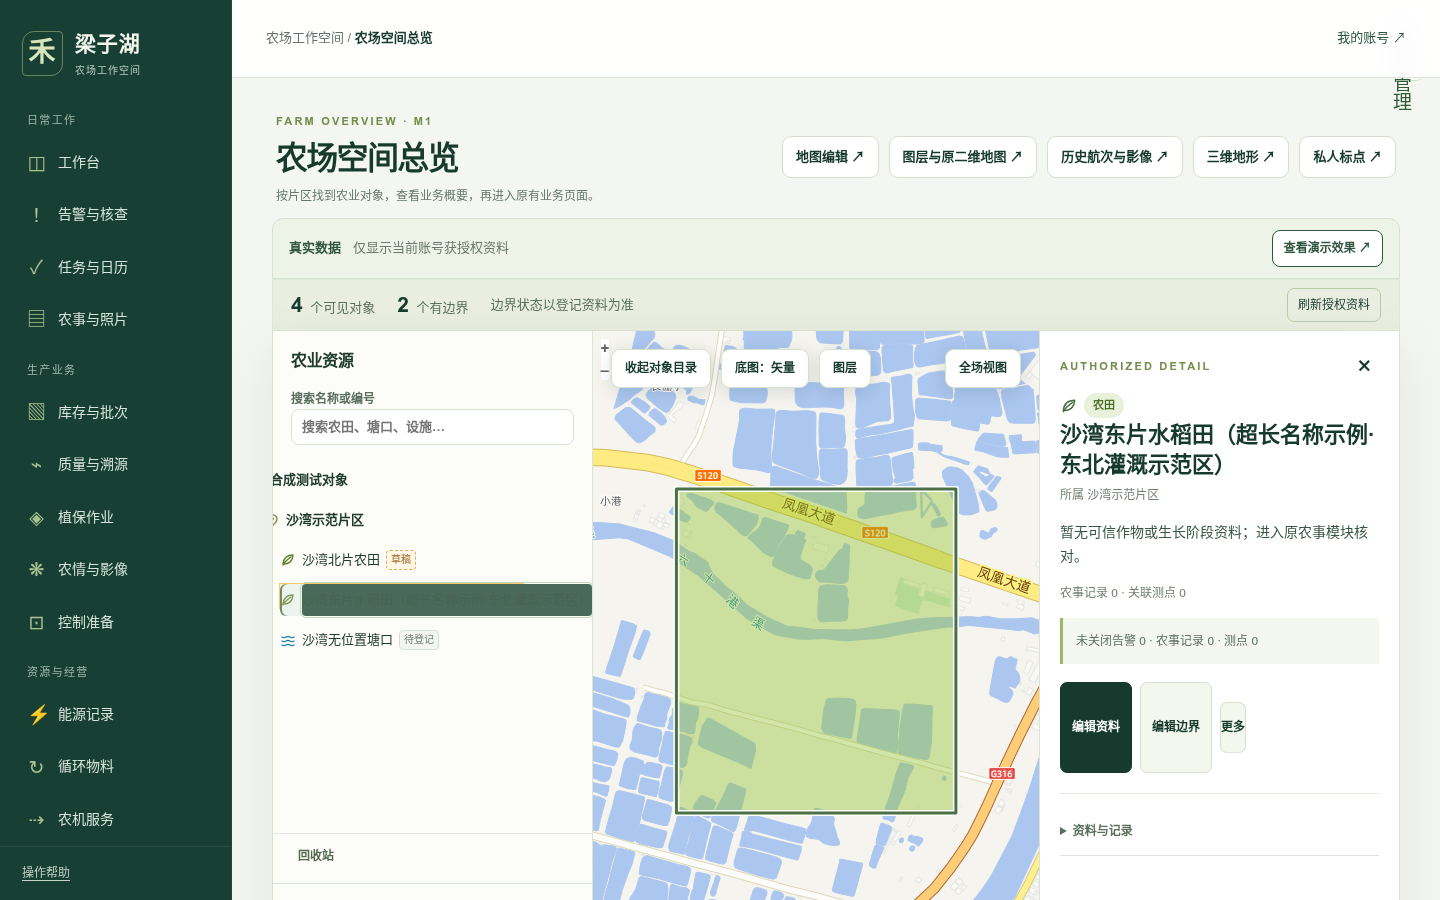
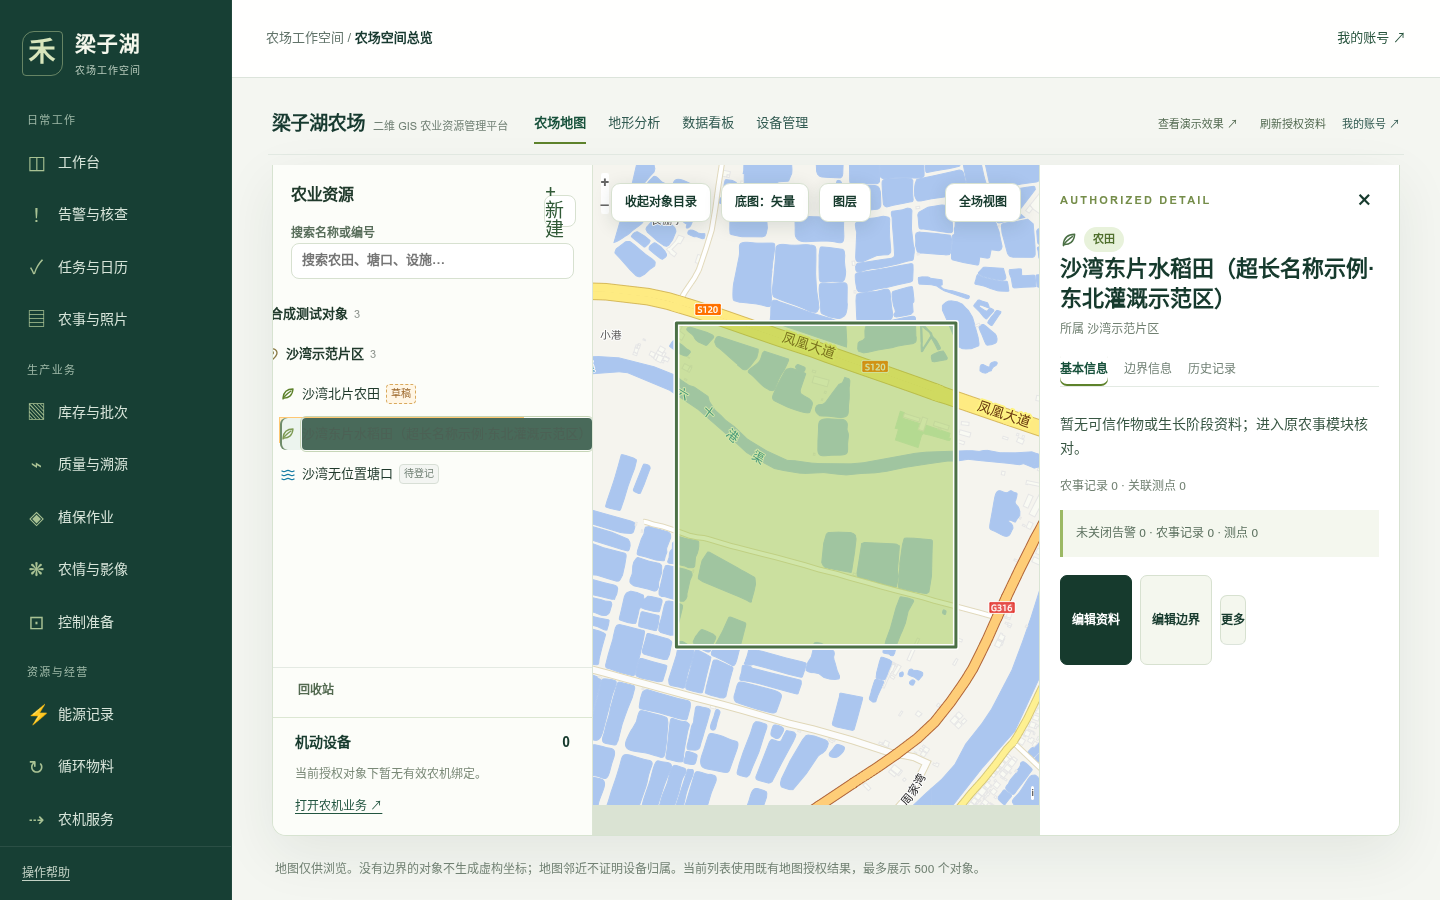
fix(m2c2): 新建按钮与目标图一致的深绿实心样式

diff --git a/src/app/(platform)/farm-overview/farm-overview.module.css b/src/app/(platform)/farm-overview/farm-overview.module.css
@@ -161,3 +161,7 @@
 .detailList dd{margin:0;text-align:right;font-weight:500}
 @media(max-width:1000px){.topNav{flex-wrap:wrap;gap:10px 20px}.topLinks{order:3;width:100%}.topActions{order:2;margin-left:auto}}
 @media(max-width:760px){.topNav{gap:8px 14px;padding-bottom:8px}.topBrand strong{font-size:17px}.topBrand span{display:none}.topLinks{gap:16px}.topActions{width:100%;margin-left:0}}
+
+/* 新建按钮与目标图一致的深绿实心样式 */
+.manageButton{display:inline-flex!important;align-items:center;justify-content:center;width:auto!important;height:auto!important;padding:6px 12px!important;background:#17513b!important;color:#fff!important;border:0!important;border-radius:7px!important;font-size:12px!important;font-weight:650!important;line-height:1.4}
+.manageButton:hover:not(:disabled){background:#0f402e!important}
